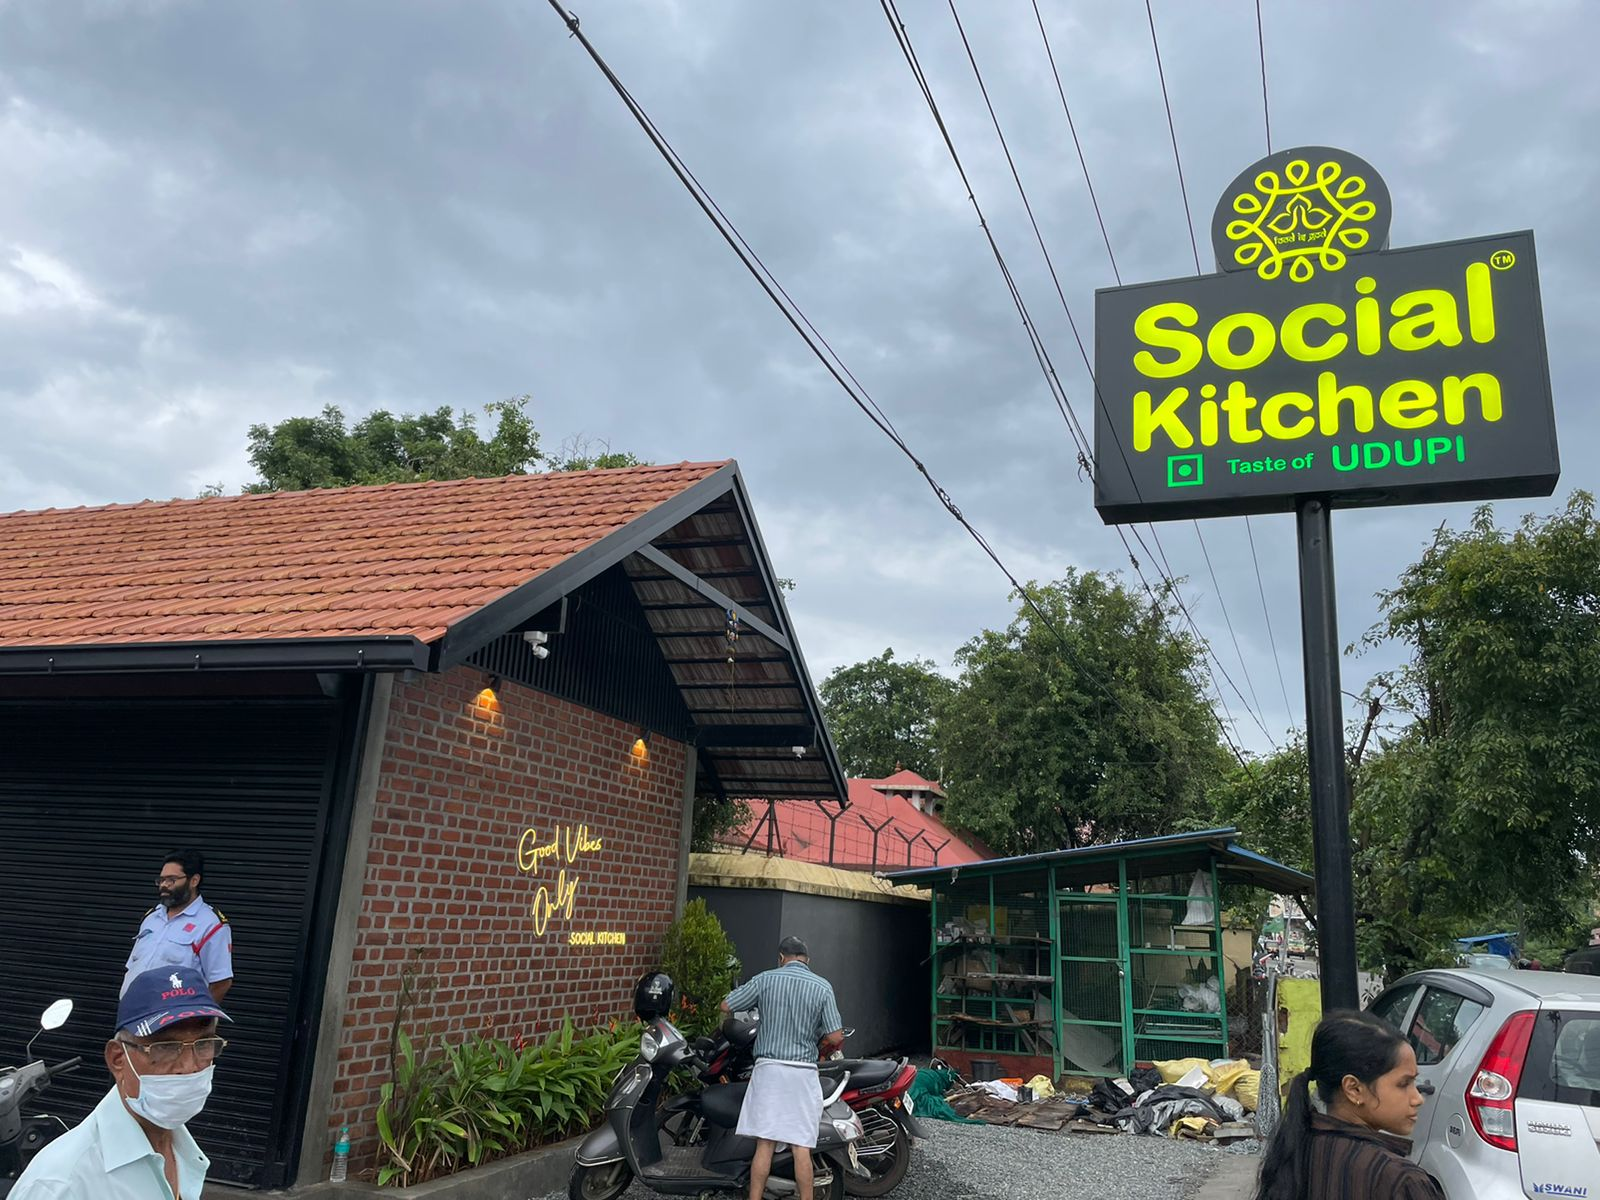
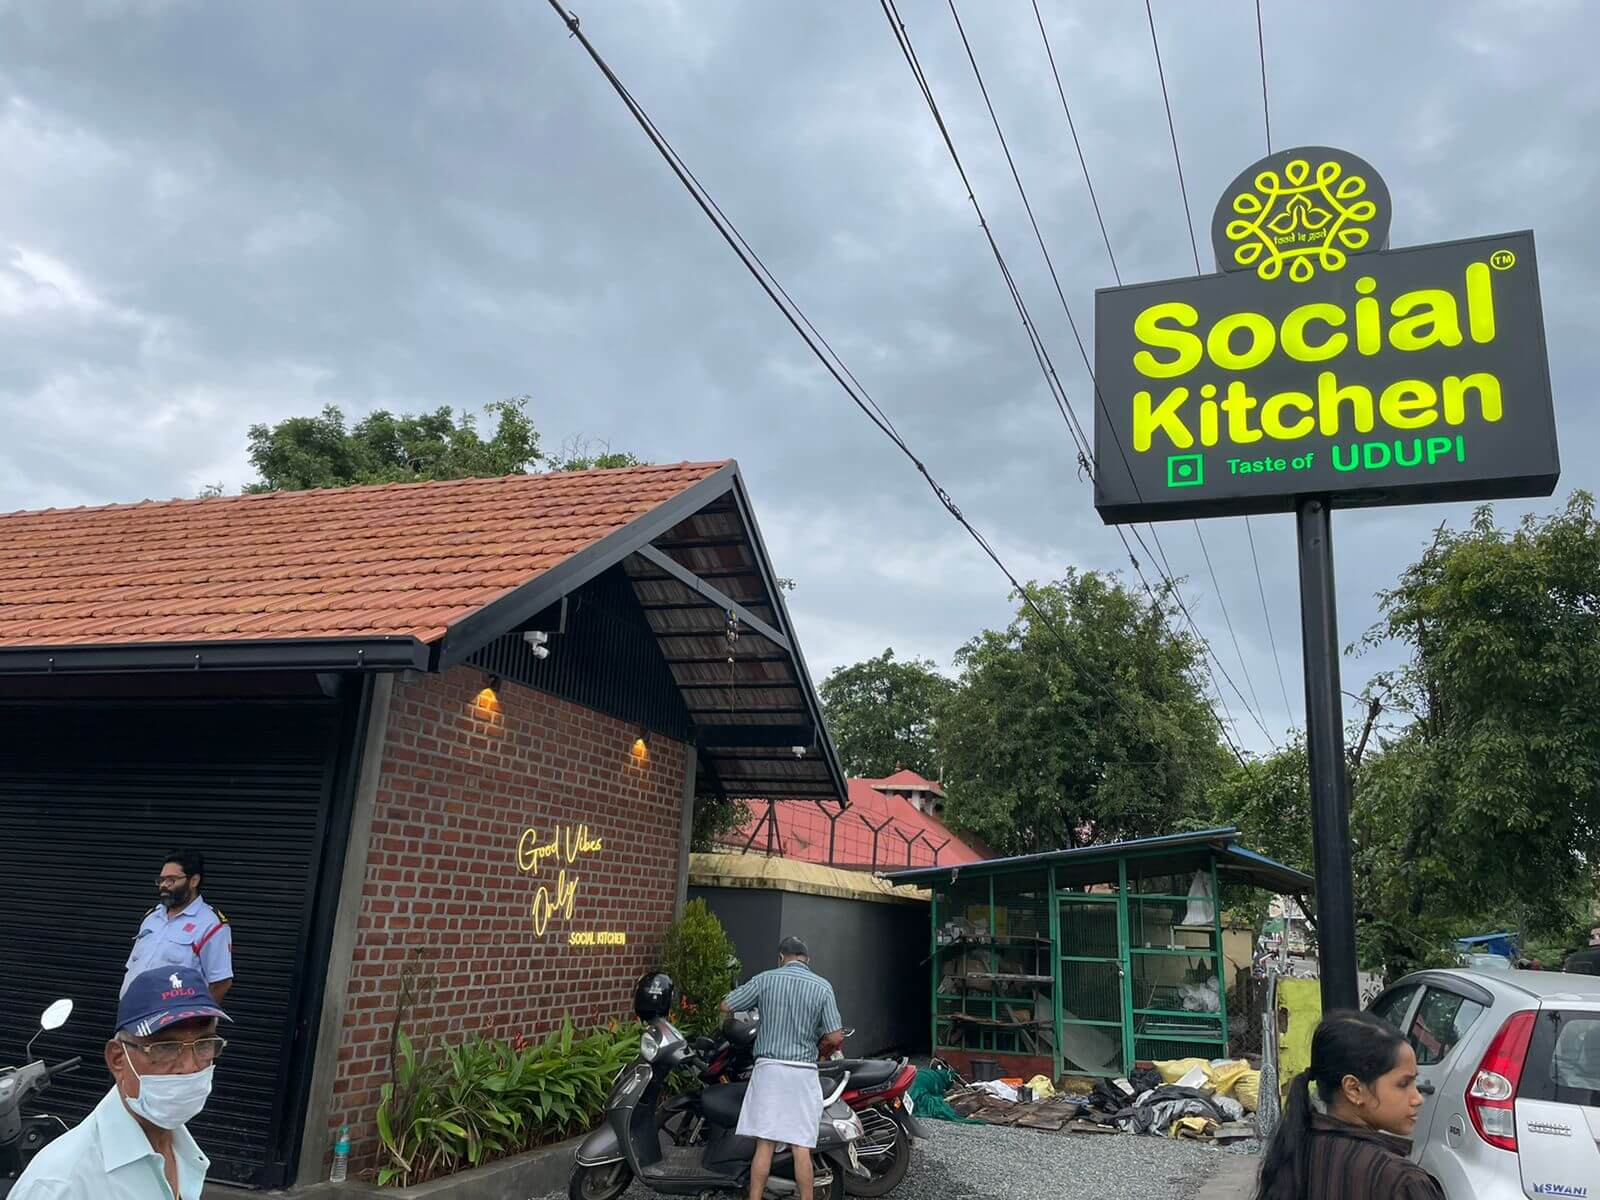
fix: optimized images

diff --git a/pages/gallery.html b/pages/gallery.html
@@ -28,10 +28,10 @@
                 <div class="h-full flex justify-center items-center gap-24 text-yellow-400 font-montserrat
                             [&>a]:px-4 py-1 [&>a]:rounded-3xl [&>a:hover]:bg-neutral-900/50 [&>a]:transition-all [&>a]:duration-500 [&>a]:ease-in-out">
                     <a class="group" href="/index.html"><p class="group-hover:drop-shadow-[0_0_5px_rgba(251,191,36,1)] transition-all duration-500 ease-in-out">Home</p></a>
-                    <a class="group" href="/pages/about.html"><p class="group-hover:drop-shadow-[0_0_5px_rgba(251,191,36,1)] transition-all duration-500 ease-in-out">About</p></a>
-                    <a class="group" href="/pages/menu.html"><p class="group-hover:drop-shadow-[0_0_5px_rgba(251,191,36,1)] transition-all duration-500 ease-in-out">Menu</p></a>
+                    <a class="group" href="/Social-Kitchen/pages/about.html"><p class="group-hover:drop-shadow-[0_0_5px_rgba(251,191,36,1)] transition-all duration-500 ease-in-out">About</p></a>
+                    <a class="group" href="/Social-Kitchen/pages/menu.html"><p class="group-hover:drop-shadow-[0_0_5px_rgba(251,191,36,1)] transition-all duration-500 ease-in-out">Menu</p></a>
                     <a class="group" href="#"><p class="group-hover:drop-shadow-[0_0_5px_rgba(251,191,36,1)] transition-all duration-500 ease-in-out">Gallery</p></a>
-                    <a class="group" href="/pages/contact.html"><p class="group-hover:drop-shadow-[0_0_5px_rgba(251,191,36,1)] transition-all duration-500 ease-in-out">Contact</p></a>
+                    <a class="group" href="/Social-Kitchen/pages/contact.html"><p class="group-hover:drop-shadow-[0_0_5px_rgba(251,191,36,1)] transition-all duration-500 ease-in-out">Contact</p></a>
                 </div>
         </nav>
     </header>
@@ -39,31 +39,31 @@
         <main class="relative">
             <div class="relative bg-cover bg-center bg-fixed bg-neutral-800 py-8">
                 <div class="flex flex-wrap gap-4 w-full h-full items-center justify-center pt-12">
-                    <a class="gallery-images" data-gall="gallery01" href="/assets/gallery/1.jpg">
+                    <a class="gallery-images" data-gall="gallery01" href="/Social-Kitchen/assets/gallery/1.jpg">
                         <div class="flex flex-col items-center justify-center w-[26rem] h-[16rem] bg-cover bg-center rounded-xl" style="background-image: url(/Social-Kitchen/assets/gallery/1.jpg);"></div>
                     </a>
-                    <a class="gallery-images" data-gall="gallery01" href="/assets/gallery/2.jpg">
+                    <a class="gallery-images" data-gall="gallery01" href="/Social-Kitchen/assets/gallery/2.jpg">
                         <div class="flex flex-col items-center justify-center w-[26rem] h-[16rem] bg-cover bg-center rounded-xl" style="background-image: url(/Social-Kitchen/assets/gallery/2.jpg);"></div>
                     </a>
-                    <a class="gallery-images" data-gall="gallery01" href="/assets/gallery/3.jpeg">
+                    <a class="gallery-images" data-gall="gallery01" href="/Social-Kitchen/assets/gallery/3.jpeg">
                         <div class="flex flex-col items-center justify-center w-[26rem] h-[16rem] bg-cover bg-center rounded-xl" style="background-image: url(/Social-Kitchen/assets/gallery/3.jpeg);"></div>
                     </a>
-                    <a class="gallery-images" data-gall="gallery01" href="/assets/gallery/4.jpg">
+                    <a class="gallery-images" data-gall="gallery01" href="/Social-Kitchen/assets/gallery/4.jpg">
                         <div class="flex flex-col items-center justify-center w-[26rem] h-[16rem] bg-cover bg-center rounded-xl" style="background-image: url(/Social-Kitchen/assets/gallery/4.jpg);"></div>
                     </a>
-                    <a class="gallery-images" data-gall="gallery01" href="/assets/gallery/5.jpg">
+                    <a class="gallery-images" data-gall="gallery01" href="/Social-Kitchen/assets/gallery/5.jpg">
                         <div class="flex flex-col items-center justify-center w-[26rem] h-[16rem] bg-cover bg-center rounded-xl" style="background-image: url(/Social-Kitchen/assets/gallery/5.jpg);"></div>
                     </a>
-                    <a class="gallery-images" data-gall="gallery01" href="/assets/gallery/6.jpg">
+                    <a class="gallery-images" data-gall="gallery01" href="/Social-Kitchen/assets/gallery/6.jpg">
                         <div class="flex flex-col items-center justify-center w-[26rem] h-[16rem] bg-cover bg-center rounded-xl" style="background-image: url(/Social-Kitchen/assets/gallery/6.jpg);"></div>
                     </a>
-                    <a class="gallery-images" data-gall="gallery01" href="/assets/gallery/7.jpg">
+                    <a class="gallery-images" data-gall="gallery01" href="/Social-Kitchen/assets/gallery/7.jpg">
                         <div class="flex flex-col items-center justify-center w-[26rem] h-[16rem] bg-cover bg-center rounded-xl" style="background-image: url(/Social-Kitchen/assets/gallery/7.jpg);"></div>
                     </a>
-                    <a class="gallery-images" data-gall="gallery01" href="/assets/gallery/8.jpg">
+                    <a class="gallery-images" data-gall="gallery01" href="/Social-Kitchen/assets/gallery/8.jpg">
                         <div class="flex flex-col items-center justify-center w-[26rem] h-[16rem] bg-cover bg-center rounded-xl" style="background-image: url(/Social-Kitchen/assets/gallery/8.jpg);"></div>
                     </a>
-                    <a class="gallery-images" data-gall="gallery01" href="/assets/gallery/9.jpg">
+                    <a class="gallery-images" data-gall="gallery01" href="/Social-Kitchen/assets/gallery/9.jpg">
                         <div class="flex flex-col items-center justify-center w-[26rem] h-[16rem] bg-cover bg-center rounded-xl" style="background-image: url(/Social-Kitchen/assets/gallery/9.jpg);"></div>
                     </a>
                 </div>

diff --git a/pages/contact.html b/pages/contact.html
@@ -26,10 +26,10 @@
                         backdrop-filter backdrop-blur-lg bg-opacity-30 border-gray-200">
                 <div class="h-full flex justify-center items-center gap-24 text-yellow-400 font-montserrat
                             [&>a]:px-4 py-1 [&>a]:rounded-3xl [&>a:hover]:bg-neutral-900/50 [&>a]:transition-all [&>a]:duration-500 [&>a]:ease-in-out">
-                    <a class="group" href="/index.html"><p class="group-hover:drop-shadow-[0_0_5px_rgba(251,191,36,1)] transition-all duration-500 ease-in-out">Home</p></a>
-                    <a class="group" href="/pages/about.html"><p class="group-hover:drop-shadow-[0_0_5px_rgba(251,191,36,1)] transition-all duration-500 ease-in-out">About</p></a>
-                    <a class="group" href="/pages/menu.html"><p class="group-hover:drop-shadow-[0_0_5px_rgba(251,191,36,1)] transition-all duration-500 ease-in-out">Menu</p></a>
-                    <a class="group" href="/pages/gallery.html"><p class="group-hover:drop-shadow-[0_0_5px_rgba(251,191,36,1)] transition-all duration-500 ease-in-out">Gallery</p></a>
+                    <a class="group" href="/Social-Kitchen/index.html"><p class="group-hover:drop-shadow-[0_0_5px_rgba(251,191,36,1)] transition-all duration-500 ease-in-out">Home</p></a>
+                    <a class="group" href="/Social-Kitchen/pages/about.html"><p class="group-hover:drop-shadow-[0_0_5px_rgba(251,191,36,1)] transition-all duration-500 ease-in-out">About</p></a>
+                    <a class="group" href="/Social-Kitchen/pages/menu.html"><p class="group-hover:drop-shadow-[0_0_5px_rgba(251,191,36,1)] transition-all duration-500 ease-in-out">Menu</p></a>
+                    <a class="group" href="/Social-Kitchen/pages/gallery.html"><p class="group-hover:drop-shadow-[0_0_5px_rgba(251,191,36,1)] transition-all duration-500 ease-in-out">Gallery</p></a>
                     <a class="group" href="#"><p class="group-hover:drop-shadow-[0_0_5px_rgba(251,191,36,1)] transition-all duration-500 ease-in-out">Contact</p></a>
                 </div>
         </nav>
@@ -157,6 +157,6 @@
     </div>
 
     <script src="https://unpkg.com/smooth-scrollbar@latest/dist/smooth-scrollbar.js"></script>
-    <script src="/js/script.js"></script>
+    <script src="/Social-Kitchen/js/script.js"></script>
 </body>
 </html>

diff --git a/pages/menu.html b/pages/menu.html
@@ -26,11 +26,11 @@
                         backdrop-filter backdrop-blur-lg bg-opacity-30 border-gray-200">
                 <div class="h-full flex justify-center items-center gap-24 text-yellow-400 font-montserrat
                             [&>a]:px-4 py-1 [&>a]:rounded-3xl [&>a:hover]:bg-neutral-900/50 [&>a]:transition-all [&>a]:duration-500 [&>a]:ease-in-out">
-                    <a class="group" href="/index.html"><p class="group-hover:drop-shadow-[0_0_5px_rgba(251,191,36,1)] transition-all duration-500 ease-in-out">Home</p></a>
-                    <a class="group" href="/pages/about.html"><p class="group-hover:drop-shadow-[0_0_5px_rgba(251,191,36,1)] transition-all duration-500 ease-in-out">About</p></a>
+                    <a class="group" href="/Social-Kitchen/index.html"><p class="group-hover:drop-shadow-[0_0_5px_rgba(251,191,36,1)] transition-all duration-500 ease-in-out">Home</p></a>
+                    <a class="group" href="/Social-Kitchen/pages/about.html"><p class="group-hover:drop-shadow-[0_0_5px_rgba(251,191,36,1)] transition-all duration-500 ease-in-out">About</p></a>
                     <a class="group" href="#"><p class="group-hover:drop-shadow-[0_0_5px_rgba(251,191,36,1)] transition-all duration-500 ease-in-out">Menu</p></a>
-                    <a class="group" href="/pages/gallery.html"><p class="group-hover:drop-shadow-[0_0_5px_rgba(251,191,36,1)] transition-all duration-500 ease-in-out">Gallery</p></a>
-                    <a class="group" href="/pages/contact.html"><p class="group-hover:drop-shadow-[0_0_5px_rgba(251,191,36,1)] transition-all duration-500 ease-in-out">Contact</p></a>
+                    <a class="group" href="/Social-Kitchen/pages/gallery.html"><p class="group-hover:drop-shadow-[0_0_5px_rgba(251,191,36,1)] transition-all duration-500 ease-in-out">Gallery</p></a>
+                    <a class="group" href="/Social-Kitchen/pages/contact.html"><p class="group-hover:drop-shadow-[0_0_5px_rgba(251,191,36,1)] transition-all duration-500 ease-in-out">Contact</p></a>
                 </div>
         </nav>
     </header>
